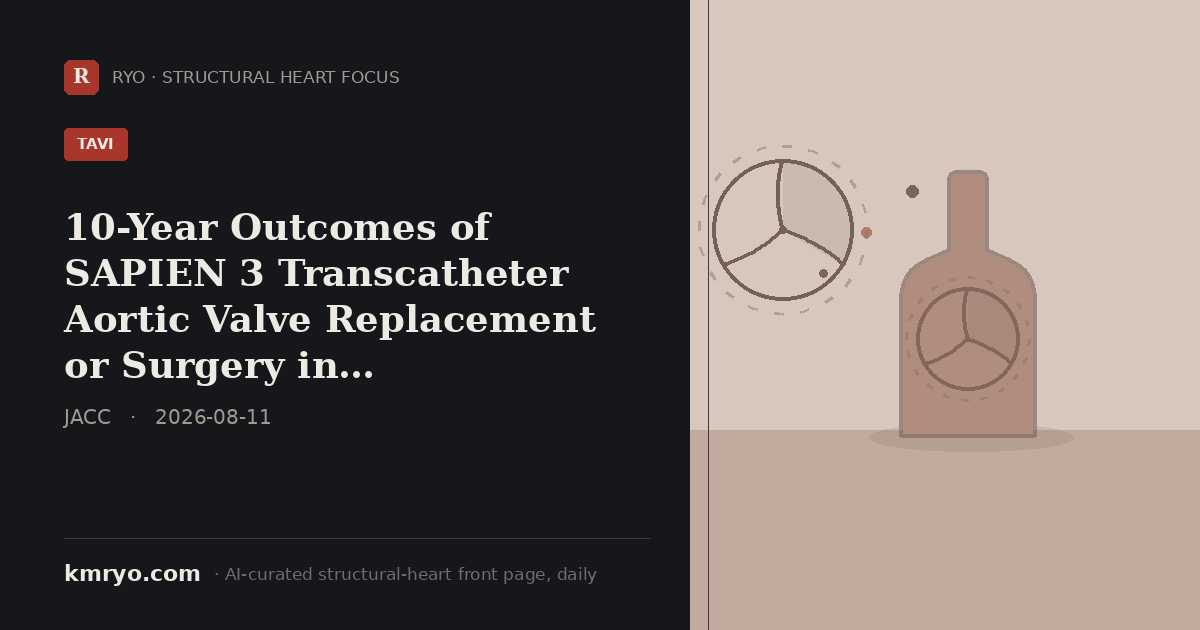
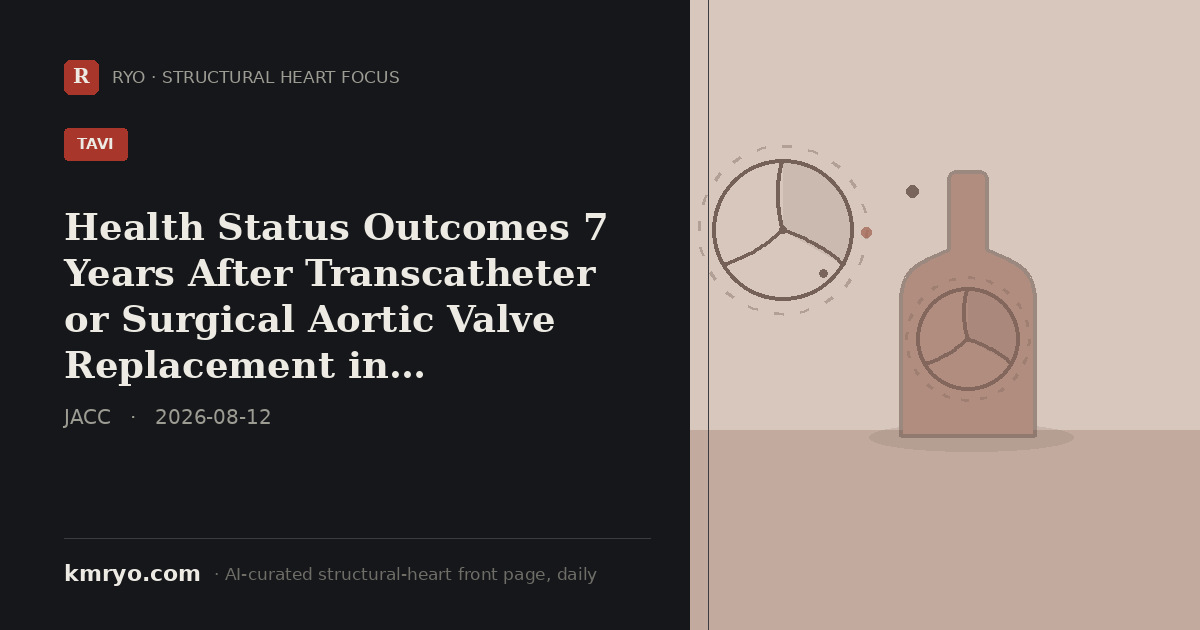
pulse: 2026-08-12 daily update
Claude-Session: https://claude.ai/code/session_0125QnUog7GX9LDD7gBe2u6F

Changed region(s): [[0.0308, 0.3317, 0.5242, 0.4524], [0.0308, 0.4825, 0.4933, 0.6333]]

diff --git a/index.html b/index.html
@@ -6,8 +6,8 @@
 <title>Structural Heart Focus — Daily | Dr. Mi Chen · 千觅量子 RYO</title>
 <meta name="description" content="Structural Heart Focus — the day's most important structural-heart reading (top journals, major meetings and the field's conversation), curated daily by an AI agent from inside the Zurich hybrid room. By Dr. Mi Chen · 千觅量子 RYO.">
 <!-- Social share card. Regenerated daily by the pulse agent (pulse/make_share_card.py); og:title/description updated to the day's top story so LinkedIn/WeChat/X show today's headline, not a static portrait. -->
-<meta property="og:title" content="10-Year Outcomes of SAPIEN 3 Transcatheter Aortic Valve Replacement or Surgery in Intermediate-Risk Patients">
-<meta property="og:description" content="JACC's 10-year PARTNER 2/P2S3i follow-up (783 vs. 783 matched patients) finds SAPIEN 3 TAVR and surgery deliver similar long-term mortality and reintervention rates. AI-curated daily by Dr. Mi Chen · 千觅量子 RYO.">
+<meta property="og:title" content="Health Status Outcomes 7 Years After Transcatheter or Surgical Aortic Valve Replacement in Low-Surgical Risk Patients With Aortic Stenosis">
+<meta property="og:description" content="PARTNER 3's 7-year KCCQ analysis (943 low-risk patients) finds TAVR delivers faster early recovery, with long-term health-status outcomes comparable to surgery from year 3 onward. AI-curated daily by Dr. Mi Chen · 千觅量子 RYO.">
 <meta property="og:image" content="https://www.kmryo.com/pulse/img/share/card.png">
 <meta property="og:image:width" content="1200">
 <meta property="og:image:height" content="630">
@@ -16,8 +16,8 @@
 <meta property="og:type" content="website">
 <meta property="og:site_name" content="kmryo.com · Structural Heart Focus">
 <meta name="twitter:card" content="summary_large_image">
-<meta name="twitter:title" content="10-Year Outcomes of SAPIEN 3 Transcatheter Aortic Valve Replacement or Surgery in Intermediate-Risk Patients">
-<meta name="twitter:description" content="JACC's 10-year PARTNER 2/P2S3i follow-up (783 vs. 783 matched patients) finds SAPIEN 3 TAVR and surgery deliver similar long-term mortality and reintervention rates.">
+<meta name="twitter:title" content="Health Status Outcomes 7 Years After Transcatheter or Surgical Aortic Valve Replacement in Low-Surgical Risk Patients With Aortic Stenosis">
+<meta name="twitter:description" content="PARTNER 3's 7-year KCCQ analysis (943 low-risk patients) finds TAVR delivers faster early recovery, with long-term health-status outcomes comparable to surgery from year 3 onward.">
 <meta name="twitter:image" content="https://www.kmryo.com/pulse/img/share/card.png">
[1 lines of base64/hex data omitted]
 <link rel="preconnect" href="https://fonts.googleapis.com">
